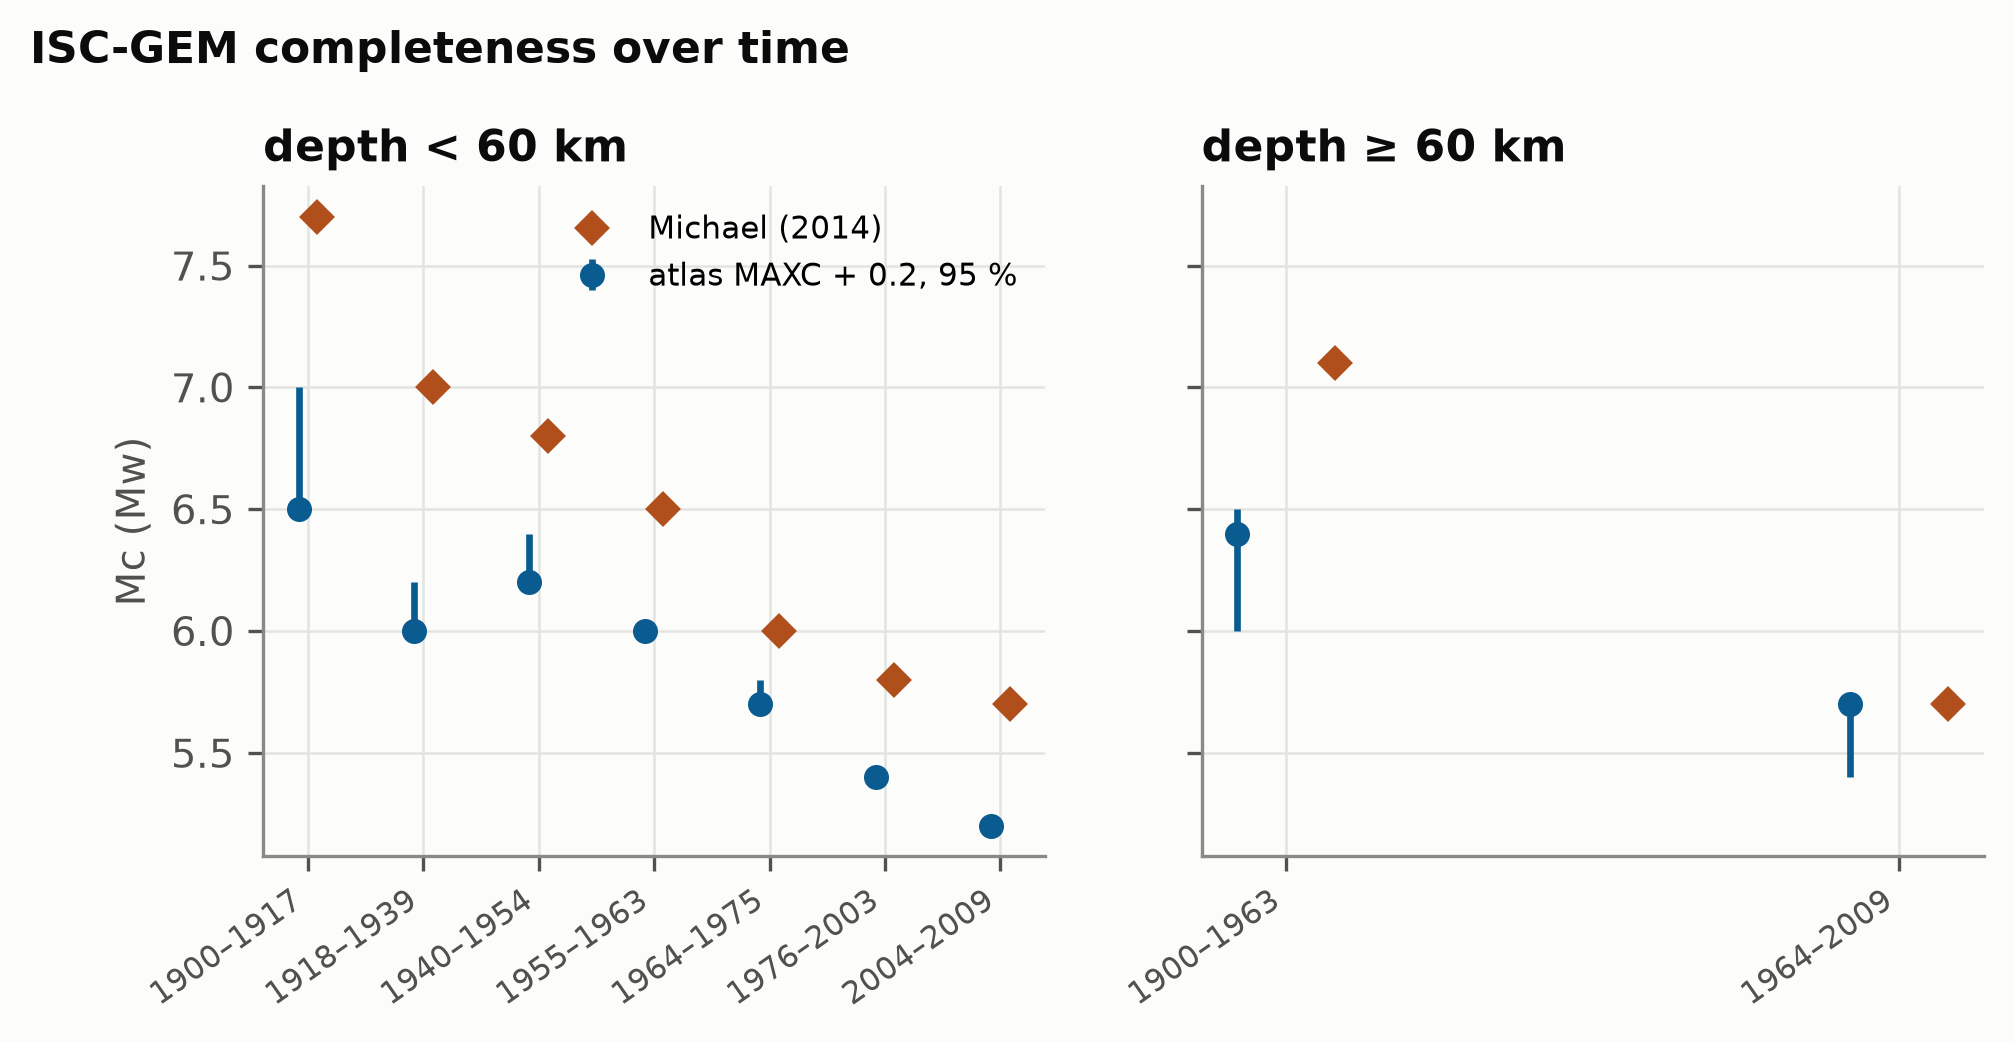
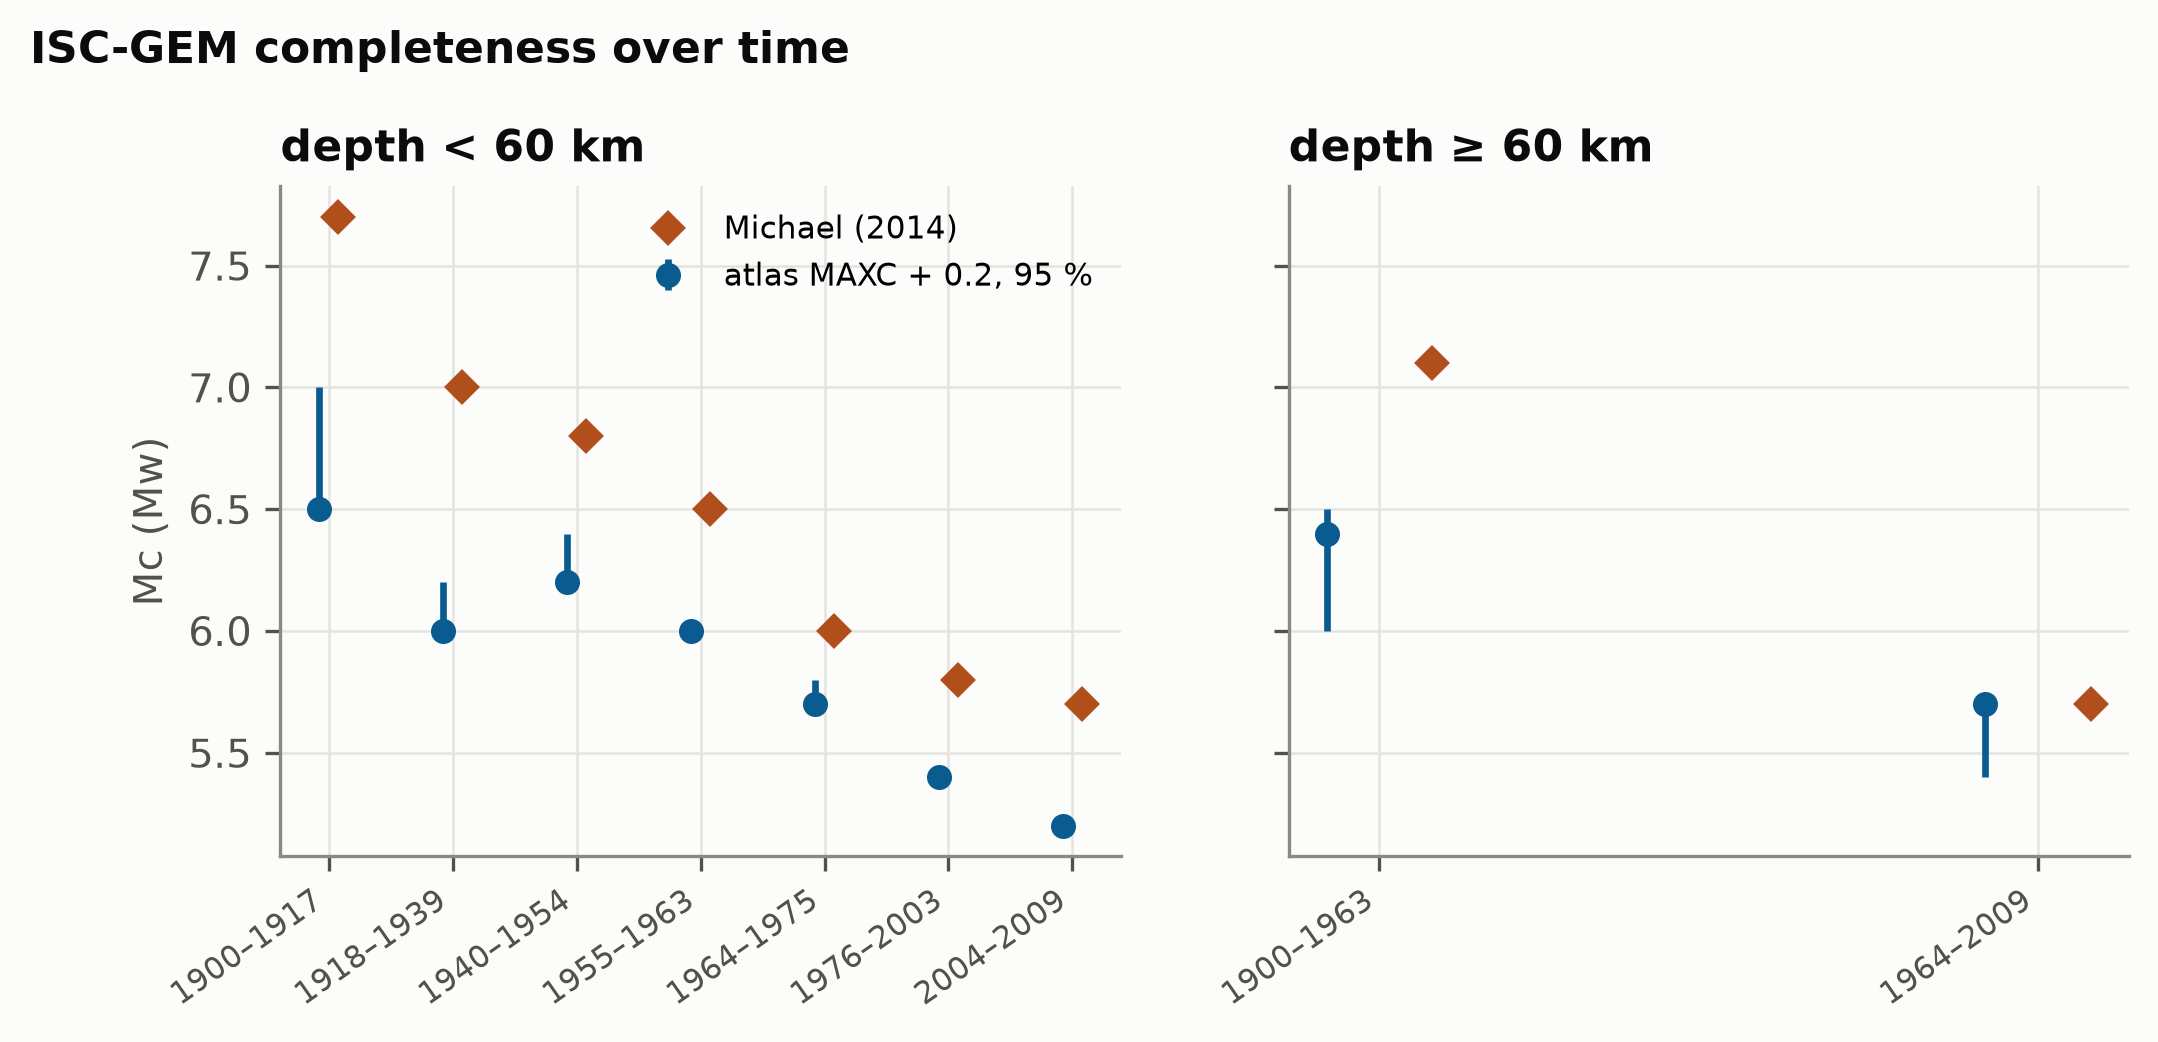
Paper figures: 300 dpi at 180 mm for Mc by period and plate-boundary b, wrapped longitudes in the FMD title, readable validation labels with the universal-b band, new catalogue-consistency figure

diff --git a/scripts/paper_figures.py b/scripts/paper_figures.py
@@ -26,7 +26,8 @@ from common import GRID, INK, INK2, MUTED, SITE  # noqa: E402
 
 plt = F.plt
 from matplotlib.collections import PolyCollection  # noqa: E402
-from matplotlib.colors import Normalize  # noqa: E402
+from matplotlib.collections import LineCollection  # noqa: E402
+from matplotlib.colors import BoundaryNorm, ListedColormap, Normalize  # noqa: E402
 from matplotlib.patches import Patch  # noqa: E402
 
 OUT = Path(__file__).resolve().parents[1] / "docs" / "img" / "paper"
@@ -35,6 +36,18 @@ VIK = crameri.cmap("vik")
 C_LOW, C_HIGH = crameri.sample("vik", [0.18, 0.82])   # two series colours from vik (ours vs published, north vs south)
 C_SEQ = crameri.sample("batlow", [0.2, 0.55, 0.8])    # categorical-ish picks from batlow for line pairs
 NOTE = "Not a forecast and not a hazard map."
+
+
+def fmt_lat(lat):
+    return f"{abs(lat):.1f}° {'S' if lat < 0 else 'N'}"
+
+
+def fmt_lon(lon):
+    """Longitude wrapped to (-180, 180]: 183.8 prints as 176.2° W."""
+    w = ((lon + 180.0) % 360.0) - 180.0
+    if w == -180.0:
+        w = 180.0
+    return f"{abs(w):.1f}° {'W' if w < 0 else 'E'}"
 
 
 def load(rel):
@@ -93,10 +106,44 @@ def b_map(d):
 
 # ----------------------------------------------------------------------------------------------- 3: validation
 NUM = r"(\d+(?:\.\d+)?)"
+UNIVERSAL_B = (0.95, 1.0)   # universal b of shallow earthquakes (Kagan 1999; Bird & Kagan 2004), beta 0.63-0.67 x 1.5
+KJ2013 = {"fe01": "Alaska-Aleutians", "fe05": "Mexico-Guatemala", "fe06": "Central America", "fe08": "Andean South America",
+          "fe12": "Kermadec-Tonga-Samoa", "fe18": "Guam-Japan", "fe19": "Japan-Kamchatka", "fe24": "Sunda arc",
+          "fe46": "Andaman-Sumatra", "tohoku": "Tohoku box", "all": "All 18 subduction zones"}
+KAGAN2010 = {"global_mt56": "Global, m ≥ 5.6", "trenches_mt56": "Trenches (PB2002 SUB), m ≥ 5.6",
+             "global_declustered_mt56": "Global declustered, m ≥ 5.6"}
+
+
+def readable(test):
+    """Short, readable row label with the source in brackets (the full settings are in docs/validation.md)."""
+    m = re.match(r"^Literature b: kj2013_(fe\d+|tohoku|all)", test)
+    if m:
+        return f"{KJ2013[m.group(1)]} (Kagan & Jackson 2013)"
+    m = re.match(r"^Literature b: kagan2010_(\S+) ", test)
+    if m and m.group(1) in KAGAN2010:
+        return f"{KAGAN2010[m.group(1)]} (Kagan 2010)"
+    m = re.match(r"^Global b, shallow < 60 km, (\d{4})-(\d{4})", test)
+    if m:
+        return f"Global, < 60 km, {m.group(1)}–{m.group(2)} (Michael 2014)"
+    m = re.match(r"^Global b, depth >= 60 km, (\d{4})-(\d{4})", test)
+    if m:
+        return f"Global, ≥ 60 km, {m.group(1)}–{m.group(2)} (Michael 2014)"
+    m = re.match(r"^Regional b, (\w[\w ]*?), shallow", test)
+    if m:
+        return f"{m.group(1)}, shallow (b ≈ 1)"
+    if test.startswith("Plate-boundary b, SUB"):
+        return "Subduction boundaries (universal b)"
+    if test.startswith("Plate-boundary b, OSR"):
+        return "Oceanic spreading ridges (Kagan 2002, via Kagan 2010)"
+    return re.sub(r"^Literature b: ", "", test).split(" (")[0].replace("_", " ")
 
 
 def validation():
-    """Every b row of the validation table with an atlas interval and a published number (or range), quality A/B only."""
+    """Every b row of the validation table with an atlas interval and a published number (or range), quality A/B only.
+
+    The subduction row is compared with the universal range b 0.95-1.0 (a band), not with the second-hand 0.98 that the
+    table quotes; rows whose verdict is a mismatch (or outside the 95 % interval) get an open marker.
+    """
     rows = []
     for r in load("global.json")["validation_table"]:
         ours, pub, test = str(r["ours"]), str(r["published"]), r["test"]
@@ -108,27 +155,34 @@ def validation():
             continue
         lo_p = float(pb.group(1))
         hi_p = float(pb.group(2)) if pb.re.groups > 1 and pb.group(2) else lo_p
-        label = re.sub(r"^Literature b: ", "", test).split(" (")[0].replace("_", " ")
-        rows.append((label, *map(float, m.groups()), lo_p, hi_p, r["verdict"]))
-    fig, ax = plt.subplots(figsize=(7.2, 0.42 * len(rows) + 1.2))
-    for i, (test, b, lo, hi, plo, phi, verdict) in enumerate(rows):
+        kind = "range" if hi_p > lo_p else "value"
+        if test.startswith("Plate-boundary b, SUB"):
+            (lo_p, hi_p), kind = UNIVERSAL_B, "universal"
+        off = r["verdict"].startswith("mismatch") or "outside 95 % CI" in r["verdict"]
+        rows.append((readable(test), *map(float, m.groups()), lo_p, hi_p, kind, off))
+    fig, ax = plt.subplots(figsize=(7.2, 0.36 * len(rows) + 1.0))
+    for i, (label, b, lo, hi, plo, phi, kind, off) in enumerate(rows):
         y = len(rows) - 1 - i
-        if phi > plo:
+        if kind == "universal":
+            ax.add_patch(plt.Rectangle((plo, y - 0.3), phi - plo, 0.6, color=MUTED, alpha=0.35, lw=0))
+        elif kind == "range":
             ax.add_patch(plt.Rectangle((plo, y - 0.22), phi - plo, 0.44, color=C_HIGH, alpha=0.25, lw=0))
         else:
             ax.plot([plo], [y], marker="D", ms=5.5, color=C_HIGH, zorder=3)
         ax.plot([lo, hi], [y, y], color=C_LOW, lw=2.2, solid_capstyle="round")
-        ax.plot([b], [y], "o", ms=6, color=C_LOW, mec="white", mew=1.2, zorder=4)
-        label = re.sub(r"\s+", " ", test)
-        ax.text(-0.01, y, label[:58] + ("…" if len(label) > 58 else ""), transform=ax.get_yaxis_transform(), ha="right", va="center", fontsize=7.5, color=INK)
+        ax.plot([b], [y], "o", ms=6.5, color="white" if off else C_LOW, mec=C_LOW, mew=1.6, zorder=4)
+        ax.text(-0.012, y, label, transform=ax.get_yaxis_transform(), ha="right", va="center", fontsize=8.5, color=INK)
     ax.axvline(1.0, color=GRID, lw=1, zorder=0)
     ax.set_yticks([])
     ax.set_ylim(-0.7, len(rows) - 0.3)
     ax.set_xlabel("b")
-    ax.set_title("Atlas b-values against published values", loc="left")
     ax.legend(handles=[plt.Line2D([], [], color=C_LOW, marker="o", lw=2.2, label="atlas, 95 % interval"),
+                       plt.Line2D([], [], color=C_LOW, marker="o", mfc="white", mew=1.6, lw=2.2,
+                                  label="atlas, published value outside its interval"),
                        plt.Line2D([], [], color=C_HIGH, marker="D", lw=0, label="published value"),
-                       Patch(color=C_HIGH, alpha=0.25, label="published range")], loc="lower right", fontsize=7.5)
+                       Patch(color=C_HIGH, alpha=0.25, label="published range"),
+                       Patch(color=MUTED, alpha=0.35, label="universal b 0.95–1.0 (Kagan 1999; Bird & Kagan 2004)")],
+              loc="upper center", bbox_to_anchor=(0.32, -0.07), ncol=2, fontsize=7.5, frameon=False)
     save(fig, "validation_b")
 
 
@@ -141,7 +195,7 @@ def plate_b():
     pb = load("global.json")["plate_boundary_types"]
     items = [(k, v) for k, v in pb.items() if v.get("b") is not None]
     items.sort(key=lambda kv: kv[1]["b"])
-    fig, ax = plt.subplots(figsize=(6.4, 3.2))
+    fig, ax = plt.subplots(figsize=(6.85, 3.2))
     for y, (k, v) in enumerate(items):
         lo, hi = v["ci95"]
         c = C_LOW  # one colour: the value is read from the position (vik near b = 1 is almost white)
@@ -159,7 +213,7 @@ def plate_b():
 # ----------------------------------------------------------------------------------------------- 5: Mc over time
 def mc_time():
     per = load("global.json")["michael_periods"]
-    fig, axes = plt.subplots(1, 2, figsize=(7.4, 2.9), sharey=True)
+    fig, axes = plt.subplots(1, 2, figsize=(7.95, 2.9), sharey=True)
     for ax, depth, title in ((axes[0], "<60 km", "depth < 60 km"), (axes[1], ">=60 km", "depth ≥ 60 km")):
         ps = [p for p in per if p["depth"] == depth]
         x = np.arange(len(ps))
@@ -197,7 +251,7 @@ def fmd_example():
     ax.set_yscale("log")
     ax.set_xlabel("Mw (ISC-GEM direct)")
     ax.set_ylabel("number of events")
-    ax.set_title(f"Frequency-magnitude distribution, cell at {abs(p['lat']):.1f}° S, {p['lon'] % 360:.1f}° E", loc="left", fontsize=9.5)
+    ax.set_title(f"Frequency-magnitude distribution, cell at {fmt_lat(p['lat'])}, {fmt_lon(p['lon'])}", loc="left", fontsize=9.5)
     ax.legend(fontsize=7.5)
     save(fig, "fmd_example")
 
@@ -263,8 +317,65 @@ def deficit():
     save(fig, "deficit_ratios")
 
 
+# ----------------------------------------------------------------------------------------------- 9: catalogue consistency
+def world_into(ax):
+    """The Equal Earth base map of figures.map_axes, drawn into an existing axes (for composite figures)."""
+    b = F.base_layers()
+    ax.set_aspect("equal")
+    ax.axis("off")
+    ax.fill(b["frame"][:, 0], b["frame"][:, 1], color="#f4f7fa", zorder=0)
+    ax.add_collection(PolyCollection(b["land"], facecolor="#ecebe6", edgecolor="none", zorder=1))
+    ax.add_collection(LineCollection(b["coast"], colors=MUTED, linewidths=0.3, zorder=3))
+    ax.plot(b["frame"][:, 0], b["frame"][:, 1], color=MUTED, lw=0.5, zorder=6)
+    ax.set_xlim(b["frame"][:, 0].min(), b["frame"][:, 0].max())
+    ax.set_ylim(b["frame"][:, 1].min(), b["frame"][:, 1].max())
+
+
+def consistency():
+    """(a) Global shallow b against the cutoff, 2004-2021, in three magnitude versions; (b) median epicentre difference
+    ComCat vs ISC-GEM per cell (cells with >= 10 matched events). Both from the published data files only."""
+    rows = load("global.json")["b_cutoff_2004_2021"]
+    feats = load("cells.geojson")["features"]
+    fig = plt.figure(figsize=(8.0, 7.6))
+    gs = fig.add_gridspec(2, 1, height_ratios=[1, 1.8], hspace=0.22)
+    a1, a2 = fig.add_subplot(gs[0]), fig.add_subplot(gs[1])
+    series = (("iscgem", "ISC-GEM Mw", C_LOW, "o", -0.02), ("comcat_native", "ComCat, preferred magnitude as served", C_SEQ[1], "s", 0.0),
+              ("comcat_proxy", "ComCat, mb/Ms converted to an Mw proxy", C_HIGH, "^", 0.02))
+    for key, lab, col, mk, off in series:
+        xs = np.array([r["cutoff"] for r in rows]) + off
+        b = np.array([r[key][0] for r in rows])
+        s = np.array([r[key][1] for r in rows])
+        a1.errorbar(xs, b, yerr=1.96 * s, fmt=f"{mk}-", color=col, ms=4.5, lw=1.3, capsize=0, label=lab)
+    a1.set_xlabel("magnitude cutoff")
+    a1.set_ylabel("b (± 1.96 σ)")
+    a1.legend(loc="upper right", fontsize=7.5)
+    a1.text(-0.1, 1.02, "a", transform=a1.transAxes, fontsize=11, fontweight="bold", color=INK, va="bottom")
+
+    world_into(a2)
+    bounds = [0, 5, 10, 15, 20, 30, 50, 100]
+    cmap = ListedColormap(crameri.sample("batlow", np.linspace(0.05, 0.95, len(bounds) - 1)))
+    norm = BoundaryNorm(bounds, cmap.N)
+    P, C = [], []
+    for ft in feats:
+        p = ft["properties"]
+        if (p.get("c_n") or 0) >= 10 and p.get("c_dloc") is not None:
+            ps = F.polys(shape(ft["geometry"]))
+            P.extend(ps)
+            C.extend([cmap(norm(p["c_dloc"]))] * len(ps))
+    a2.add_collection(PolyCollection(P, facecolors=C, edgecolors="none", zorder=2))
+    F.add_plates(a2)
+    cb = fig.colorbar(plt.cm.ScalarMappable(norm=norm, cmap=cmap), ax=a2, orientation="horizontal", fraction=0.05, pad=0.03,
+                      aspect=45)
+    cb.set_label("median epicentre distance ComCat vs ISC-GEM, matched events, km (Crameri batlow)", color=INK2)
+    cb.outline.set_visible(False)
+    a2.text(0.0, 1.0, "b", transform=a2.transAxes, fontsize=11, fontweight="bold", color=INK, va="bottom")
+    print(f"consistency: {sum(1 for ft in feats if (ft['properties'].get('c_n') or 0) >= 10)} cells with >= 10 matched events")
+    save(fig, "consistency")
+
+
 FIGS = {"b_map_shallow": lambda: b_map("sh"), "b_map_deep": lambda: b_map("dp"), "validation_b": validation, "plate_boundary_b": plate_b,
-        "mc_time": mc_time, "fmd_example": fmd_example, "groningen_rate": groningen, "deficit_ratios": deficit}
+        "mc_time": mc_time, "fmd_example": fmd_example, "groningen_rate": groningen, "deficit_ratios": deficit,
+        "consistency": consistency}
 
 
 def main():
